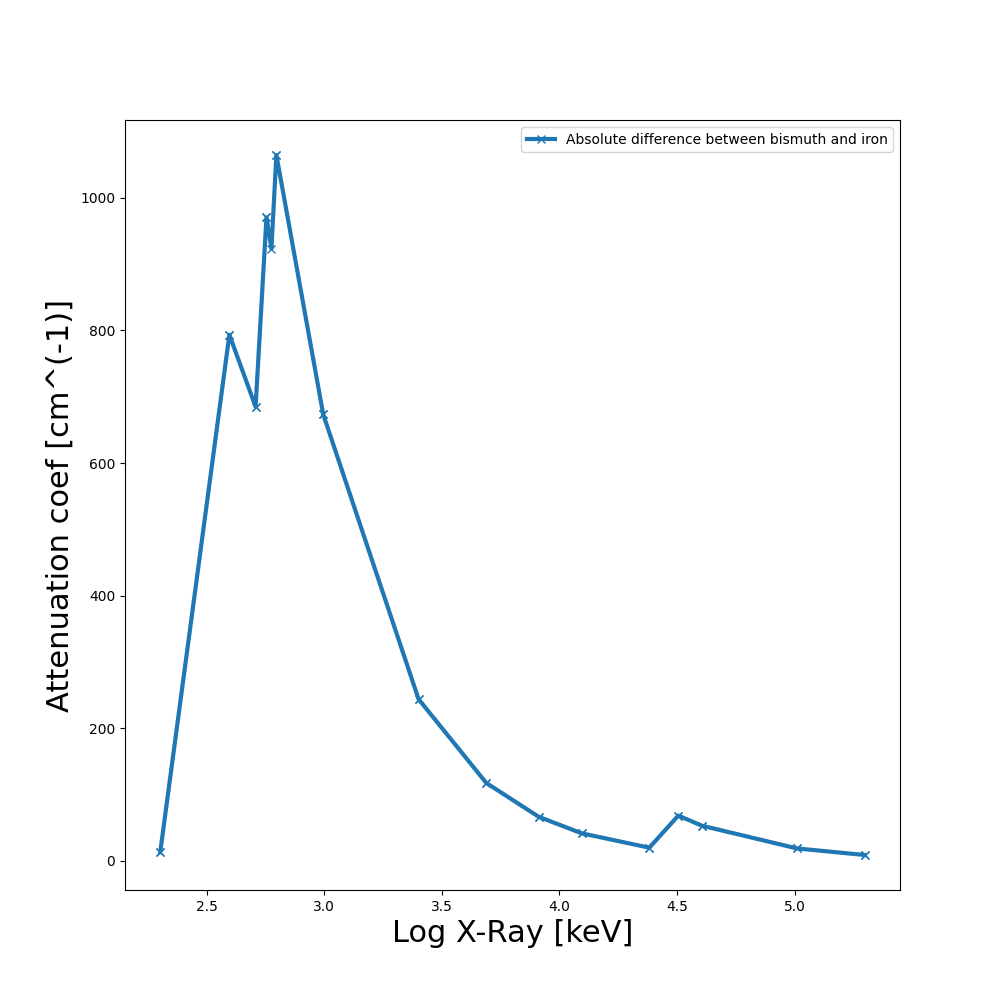
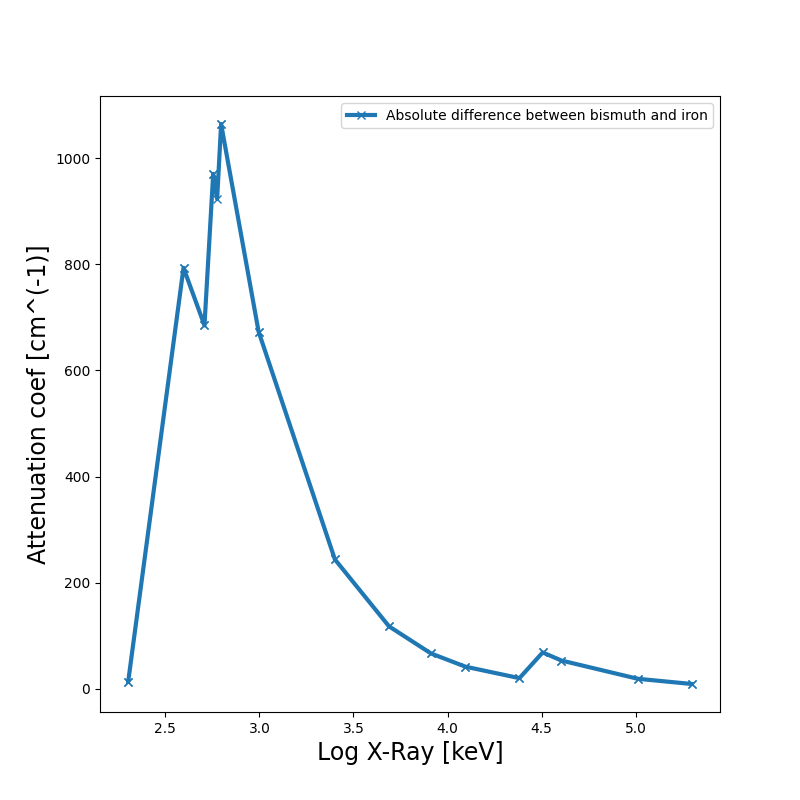
...

diff --git a/code/atttenuation_coef.py b/code/atttenuation_coef.py
@@ -88,12 +88,12 @@ new_y_iron = np.interp(x_combined, x_val_iron, y_val_iron)
 new_y_wood = np.interp(x_combined, x_val_wood, y_val_wood)
 
 diff_yinterp = np.abs(new_y_bismuth - new_y_iron)
-plt.figure("diff", figsize=(10,10))
+plt.figure("diff", figsize=(8,8))
 plt.plot(
     np.log([x for x in x_combined if x >= 10 and x <= 200]), 
     [diff for x,diff in zip(x_combined, diff_yinterp) if x >= 10 and x <= 200], '-x', linewidth=3)
-plt.xlabel("Log X-Ray [keV]", fontsize=22)
-plt.ylabel("Attenuation coef [cm^(-1)]", fontsize=22)
+plt.xlabel("Log X-Ray [keV]", fontsize=17)
+plt.ylabel("Attenuation coef [cm^(-1)]", fontsize=17)
 plt.legend(["Absolute difference between bismuth and iron"])
 
 # plt.fill_betweenx([min(y_val_iron),max(y_val_iron)],np.log(10),np.log(200),alpha=0.5)
@@ -127,12 +127,12 @@ for x, bismuth_atten_coeff, iron_atten_coeff, wood_atten_coeff in zip(x_combined
 diff_f = lambda x_list, diff_list: [diff for x, diff in zip(x_list, diff_list) if x >= 10 and x <= 200]
 x_f = lambda x_list: [x for x in x_list if x >= 10 and x <= 200]
 
-plt.figure("raw data, log x", figsize=(10,10))
+plt.figure("raw data, log x", figsize=(8,8))
 plt.plot(np.log(x_f(x_val_iron)), diff_f(x_val_iron, y_val_iron), '-x', linewidth=3)
 plt.plot(np.log(x_f(x_val_bismuth)), diff_f(x_val_bismuth, y_val_bismuth), '-x', linewidth=3)
 plt.plot(np.log(x_f(x_val_wood)), diff_f(x_val_wood, y_val_wood), '-x', linewidth=3)
-plt.xlabel("Log X-Ray [keV]", fontsize=22)
-plt.ylabel("Attenuation coef [cm^(-1)]", fontsize=22)
+plt.xlabel("Log X-Ray [keV]", fontsize=17)
+plt.ylabel("Attenuation coef [cm^(-1)]", fontsize=17)
 
 #plt.fill_betweenx([min(y_val_iron),max(y_val_iron)],np.log(10),np.log(200),alpha=0.5)
 plt.legend(["Iron", "Bismuth", "Wood"])
